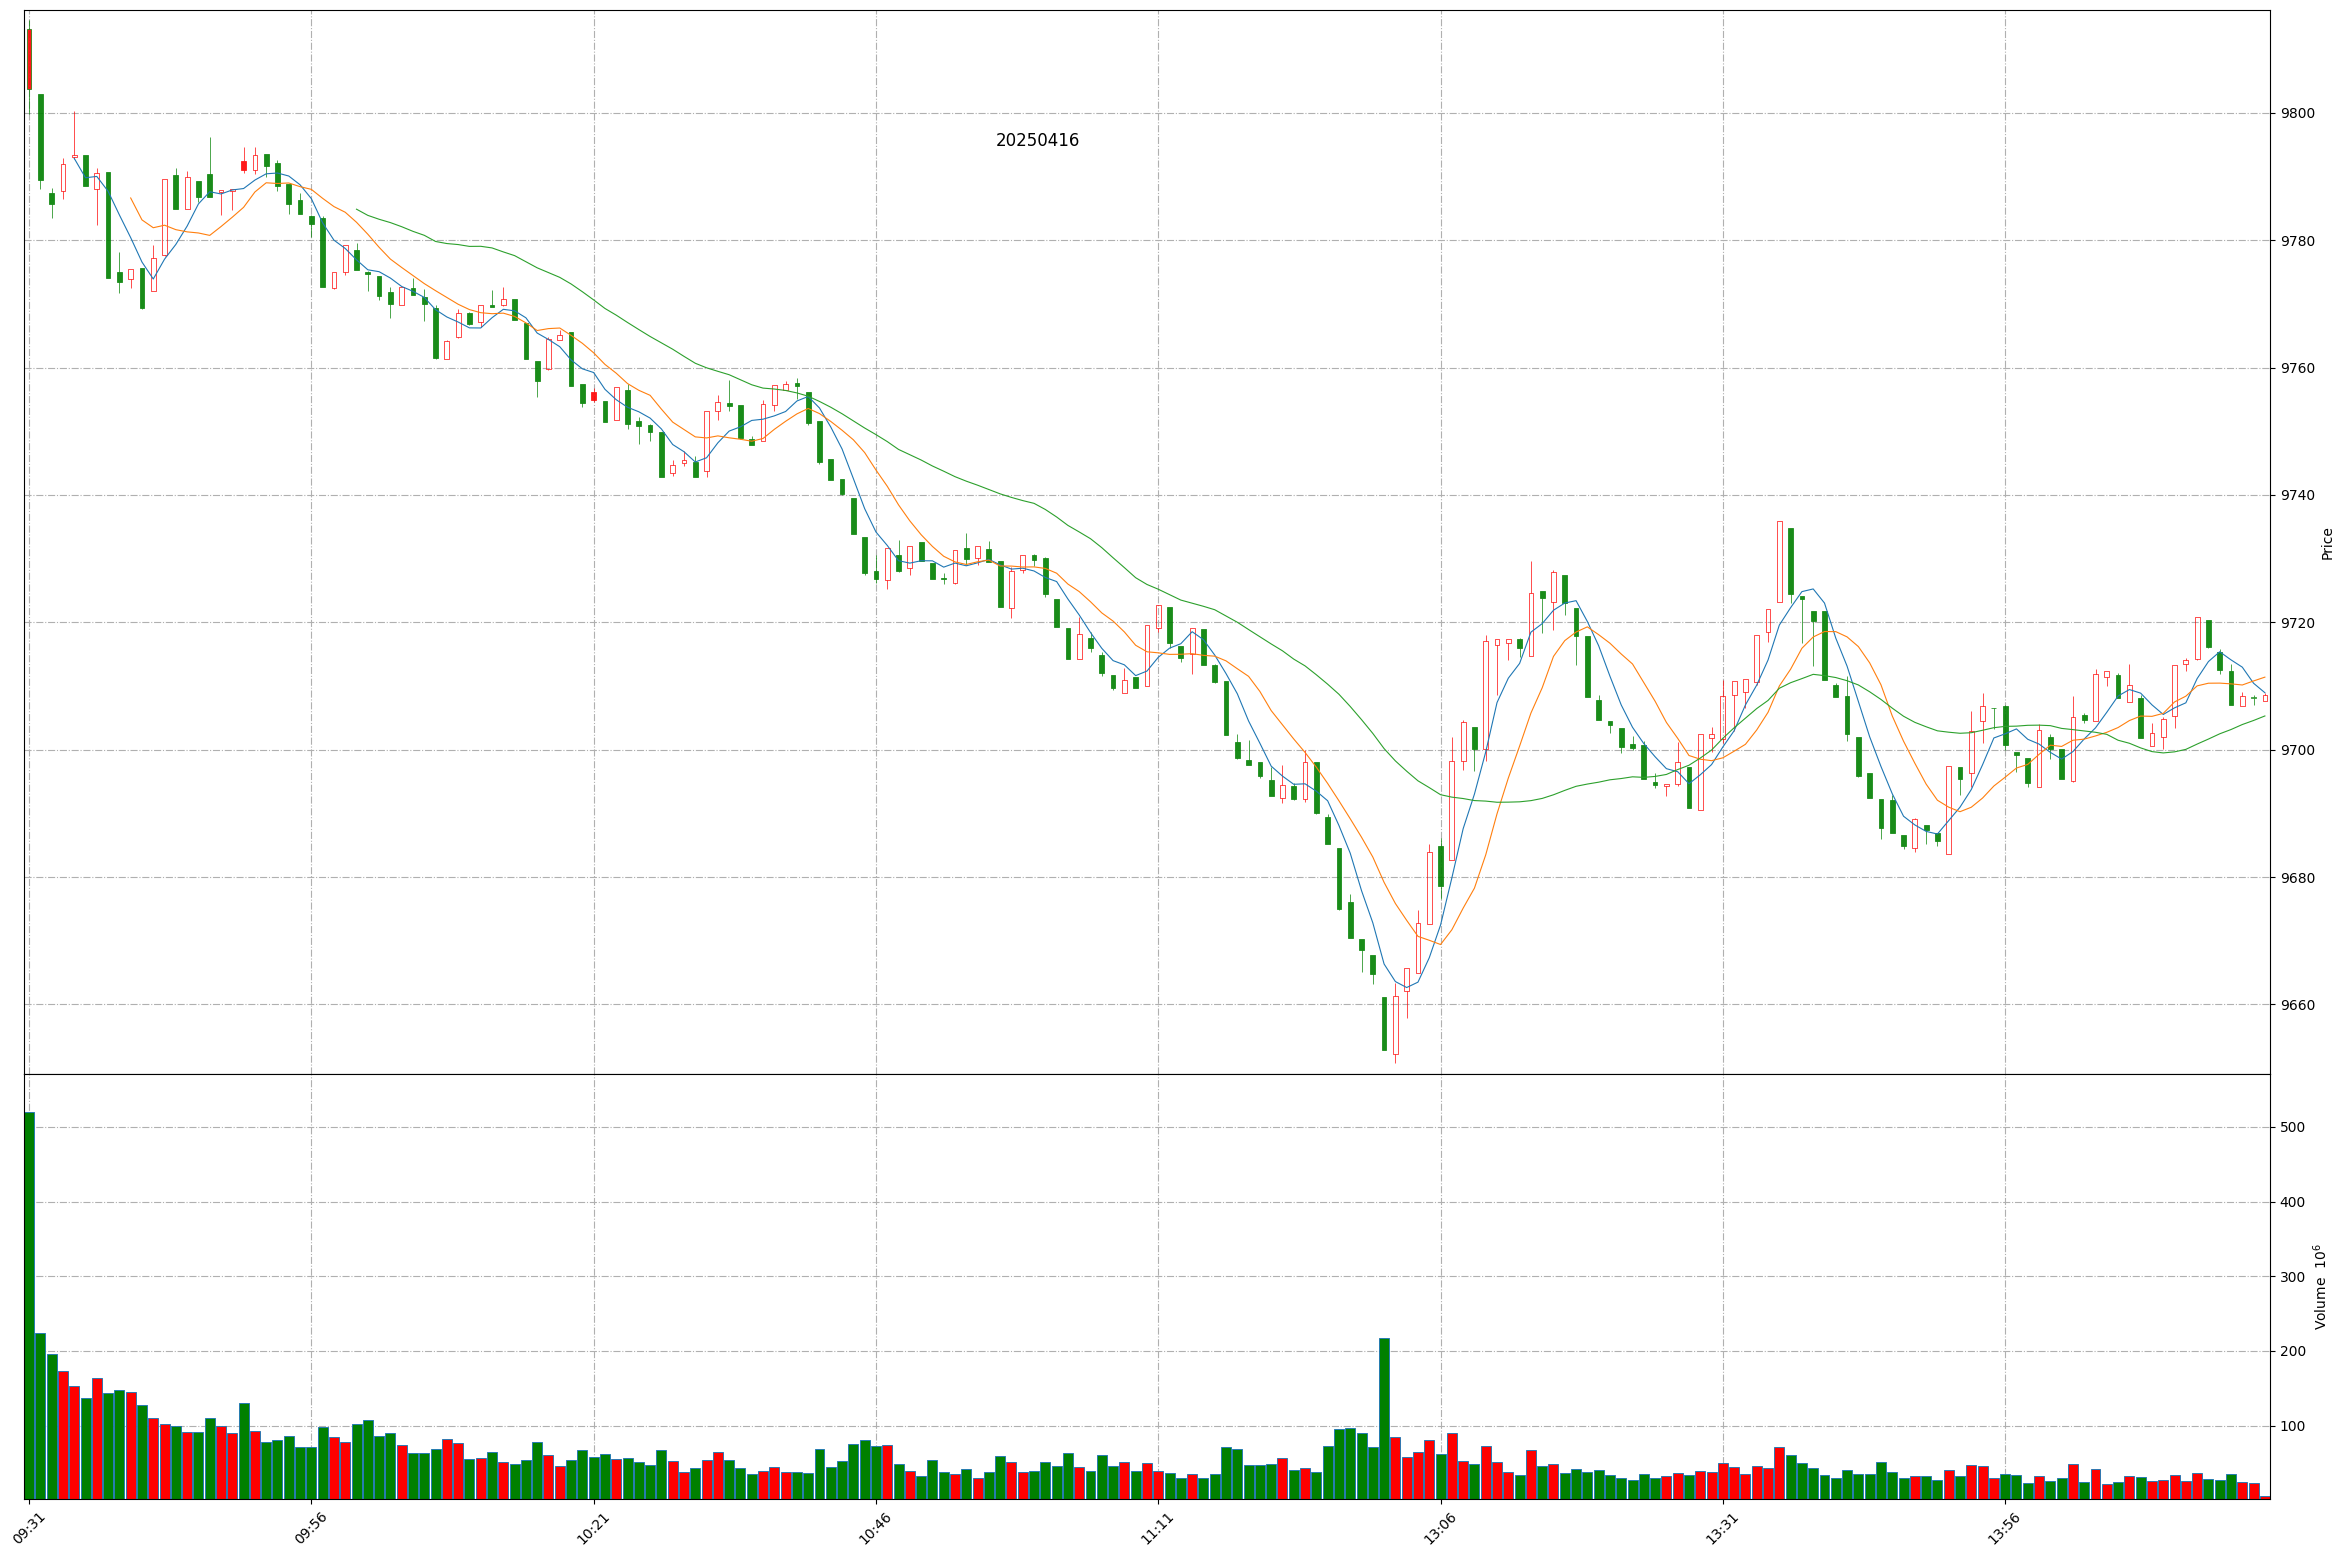
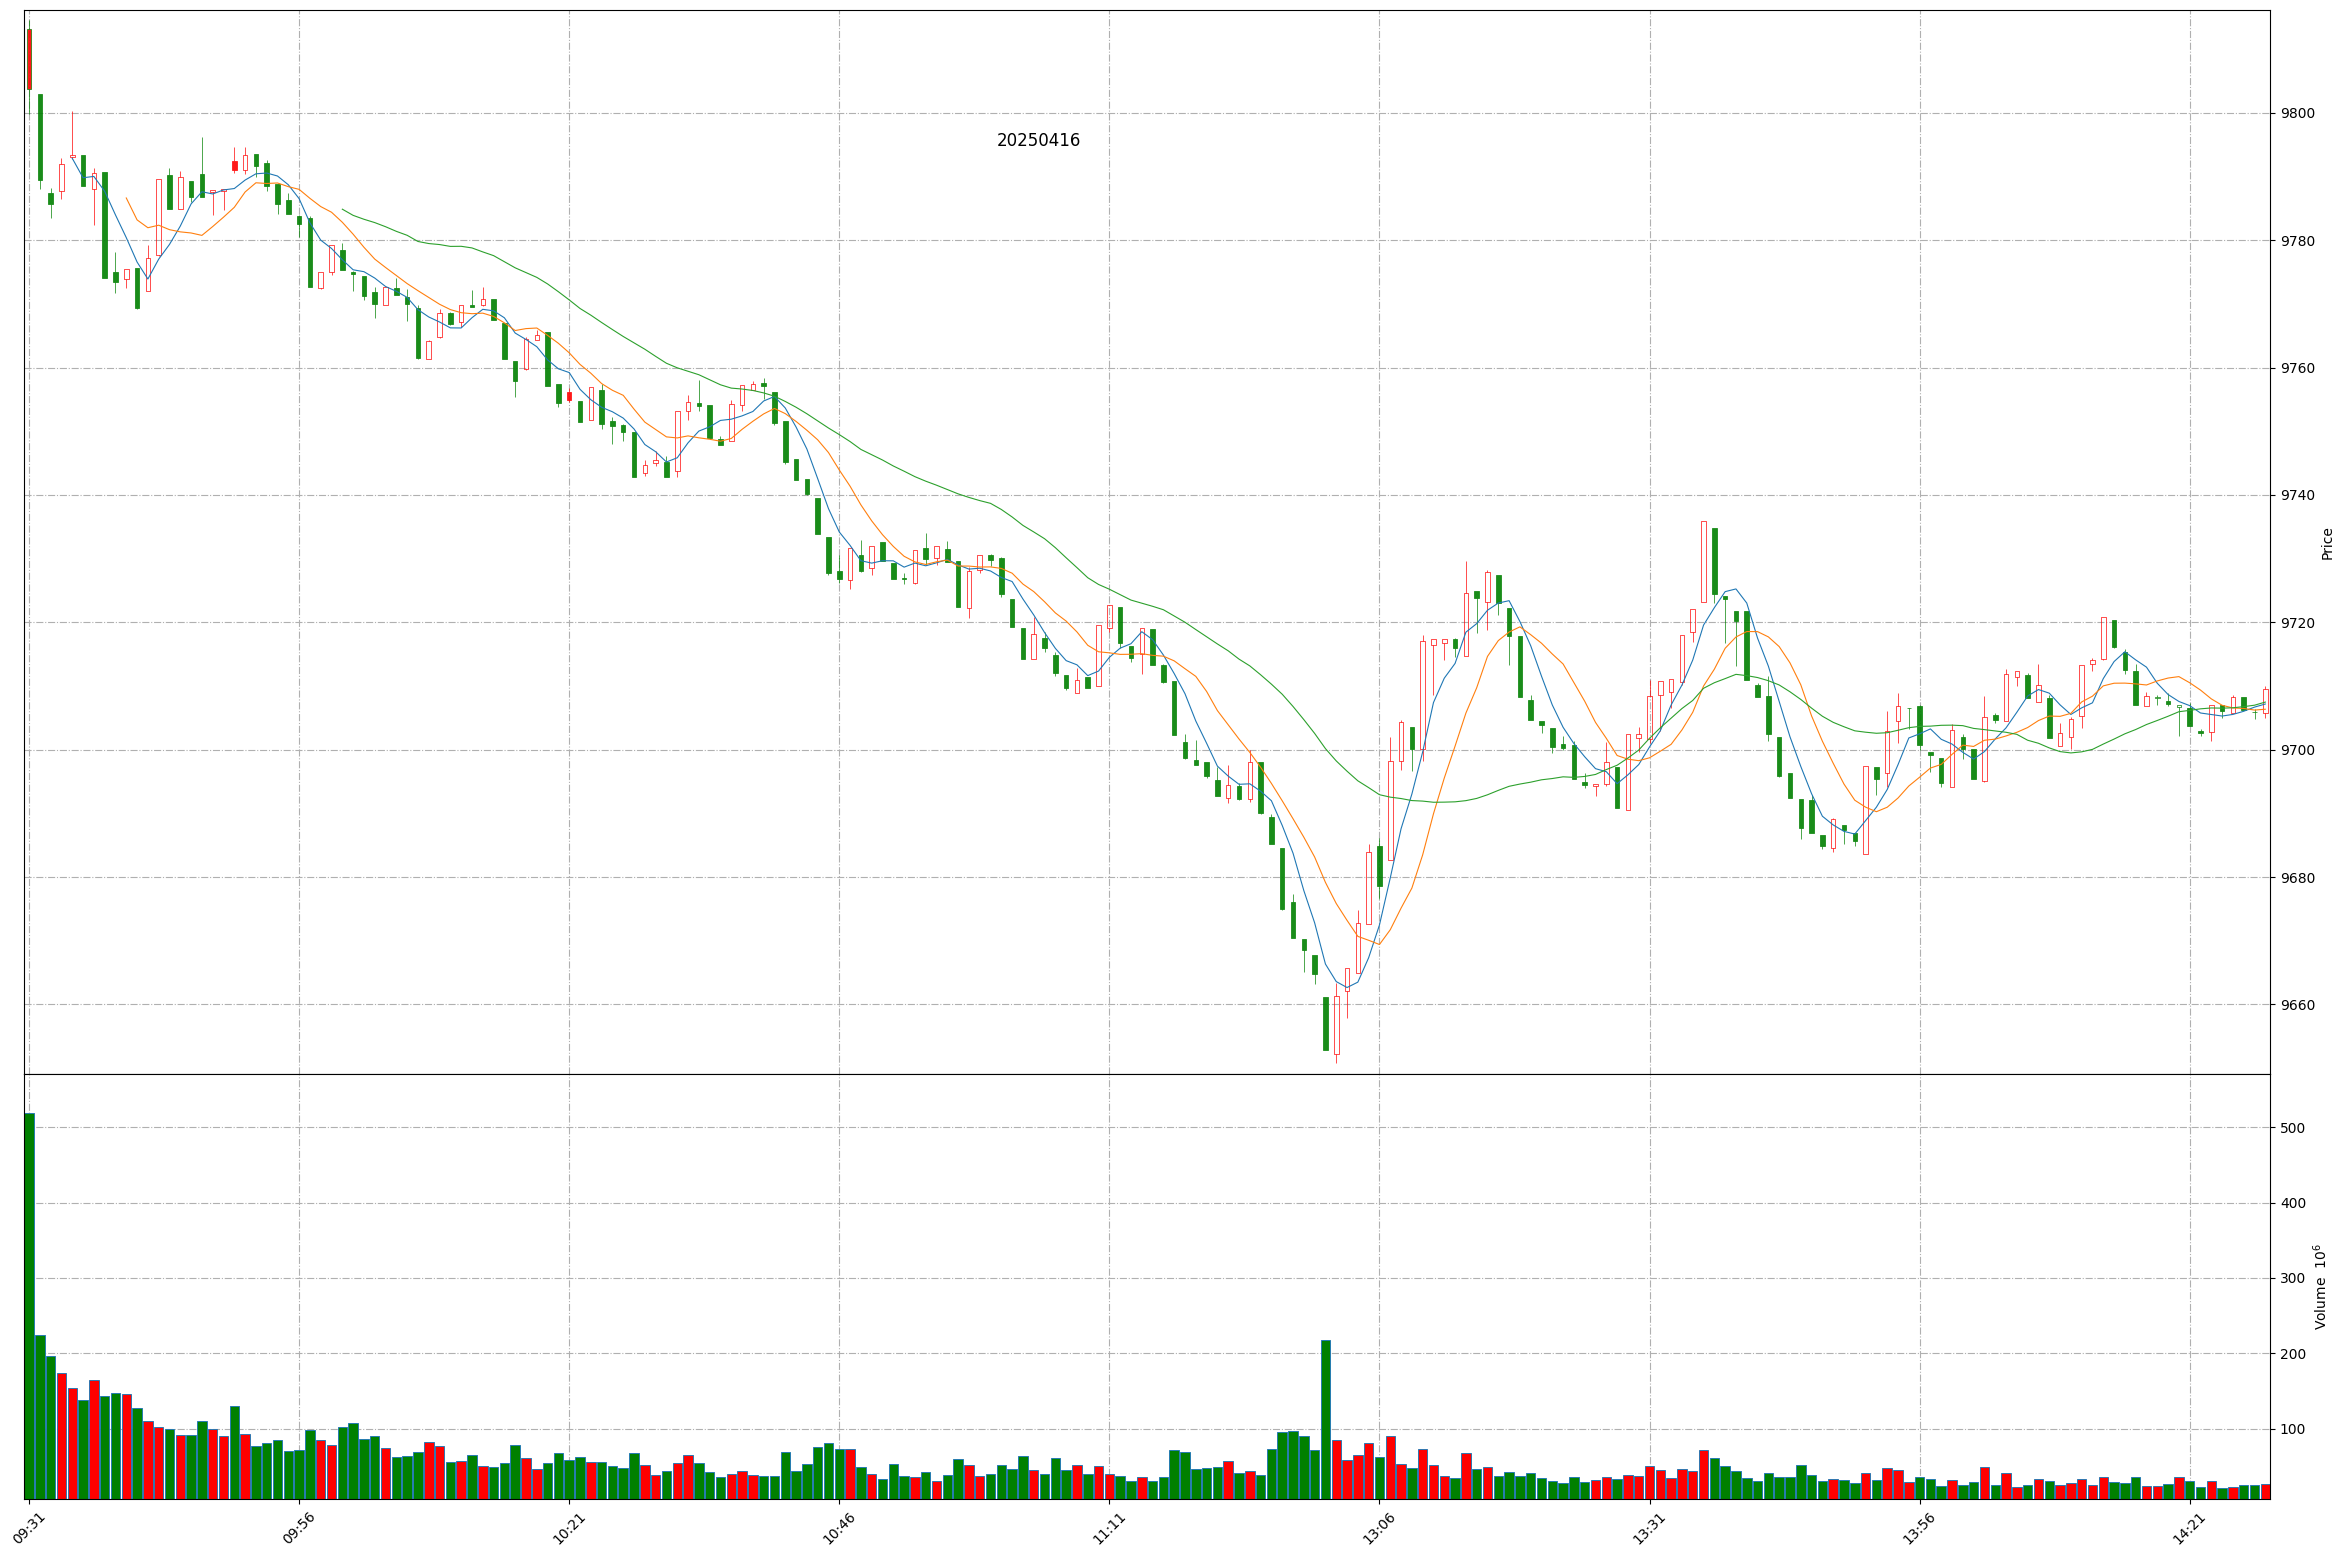
Github action update at 2025-04-16 14:28:03.

Changed region(s): [[0.0311, 0.0925, 0.9654, 0.6782], [0.0, 0.8632, 0.9654, 0.9865]]

diff --git a/README.md b/README.md
@@ -1,11 +1,11 @@
 
 # Daily-A-share-market-quotes 每日 A 股指数（5min 更新）- 20250416
 
-### 上证指数 20250416 14:18
+### 上证指数 20250416 14:28
 ![](./fig/2025/4/20250416-sh000001.png)
 
-### 深证成指 20250416 14:18
+### 深证成指 20250416 14:28
 ![](./fig/2025/4/20250416-sz399001.png)
 
-### 北证50 20250416 14:18
+### 北证50 20250416 14:28
 ![](./fig/2025/4/20250416-bj899050.png)
